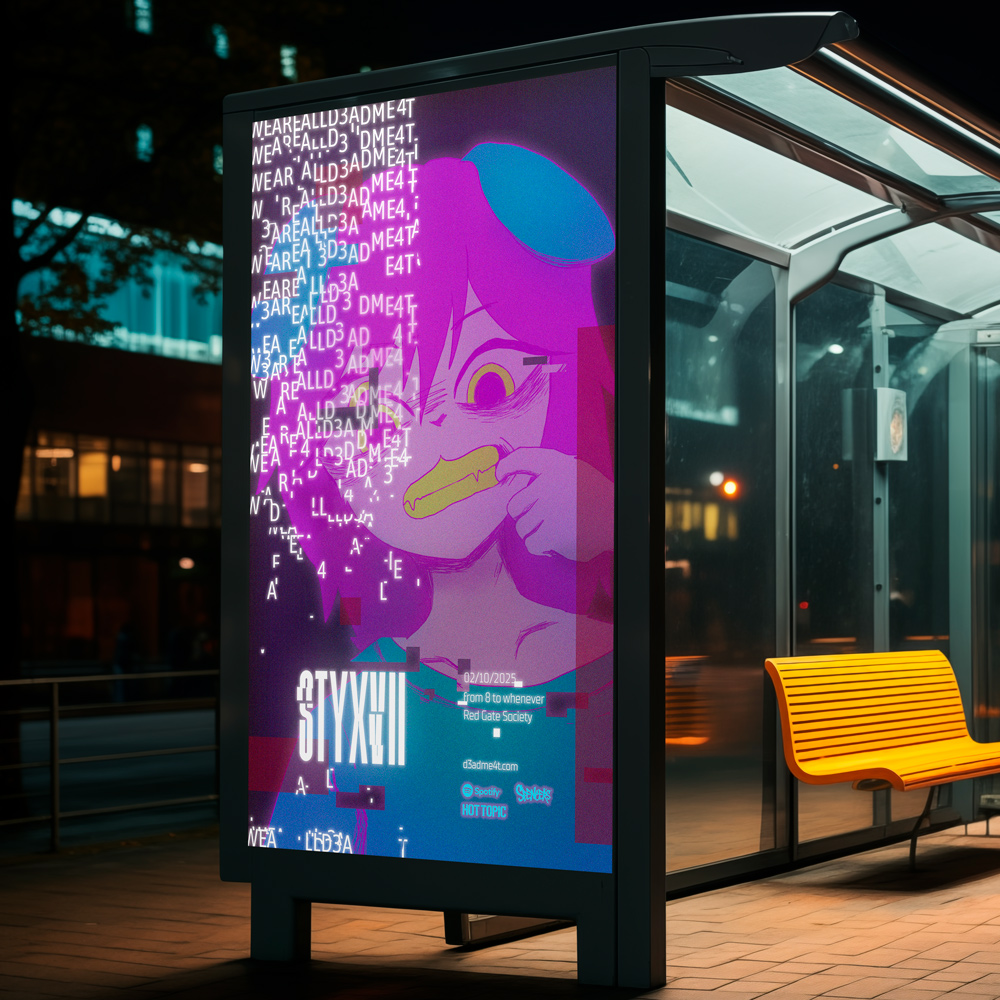
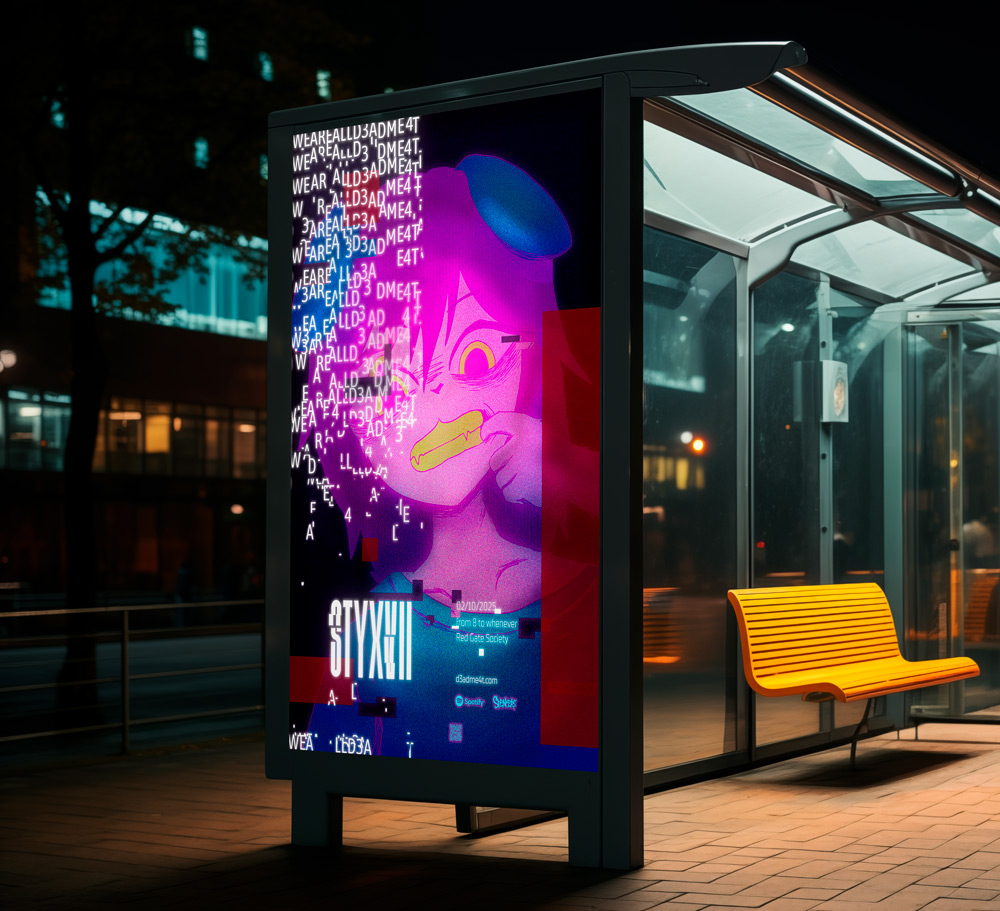
new photo

diff --git a/chinese-national-bag.html b/chinese-national-bag.html
@@ -112,9 +112,8 @@
         </div>
         <div class="project-image">
           <img
-            src="assets/images/caroline-zhang-design-packaging-national-bag-Dynasties-in-a-Bag-Front.jpg"
+            src="assets/images/caroline-zhang-design-packaging-national-bag-Dynasties-in-a-Bag-Poster.jpg"
             width="600"
-            height="800"
             alt="A description of the image"
           />
         </div>
